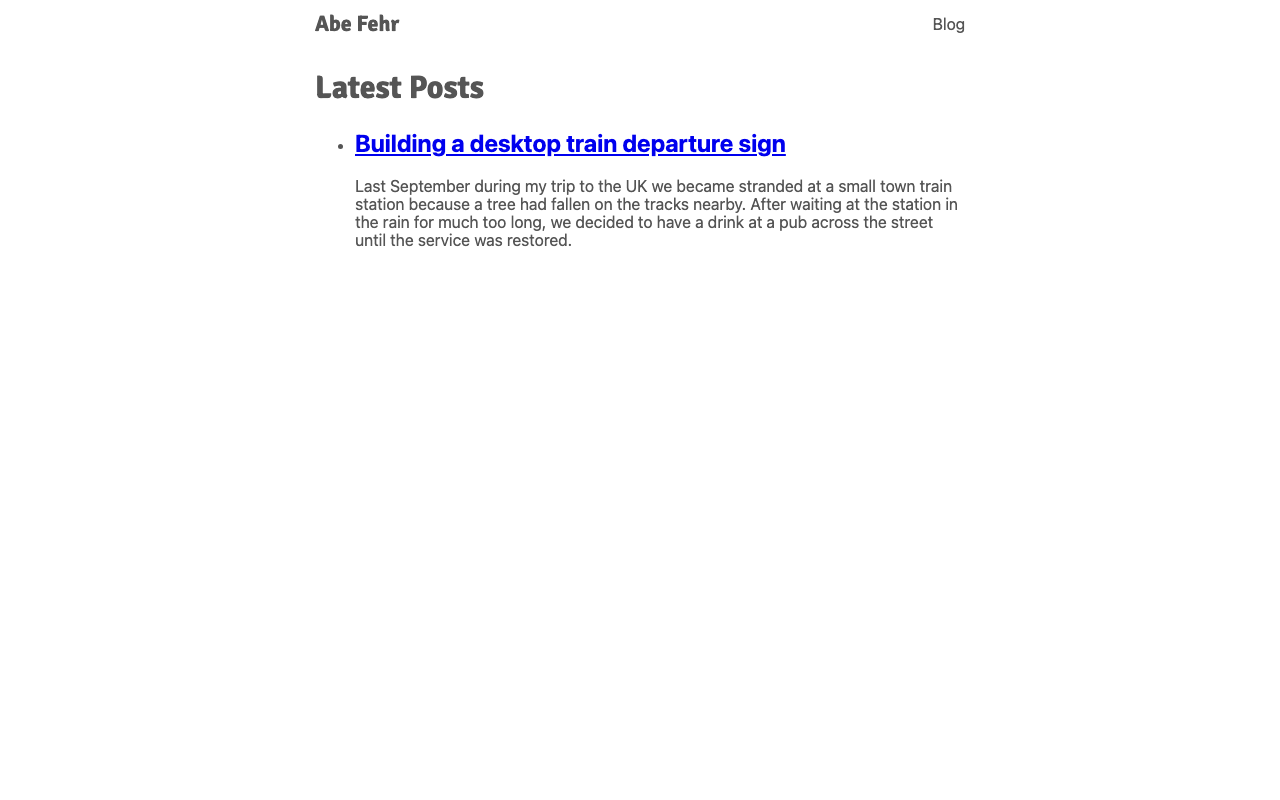
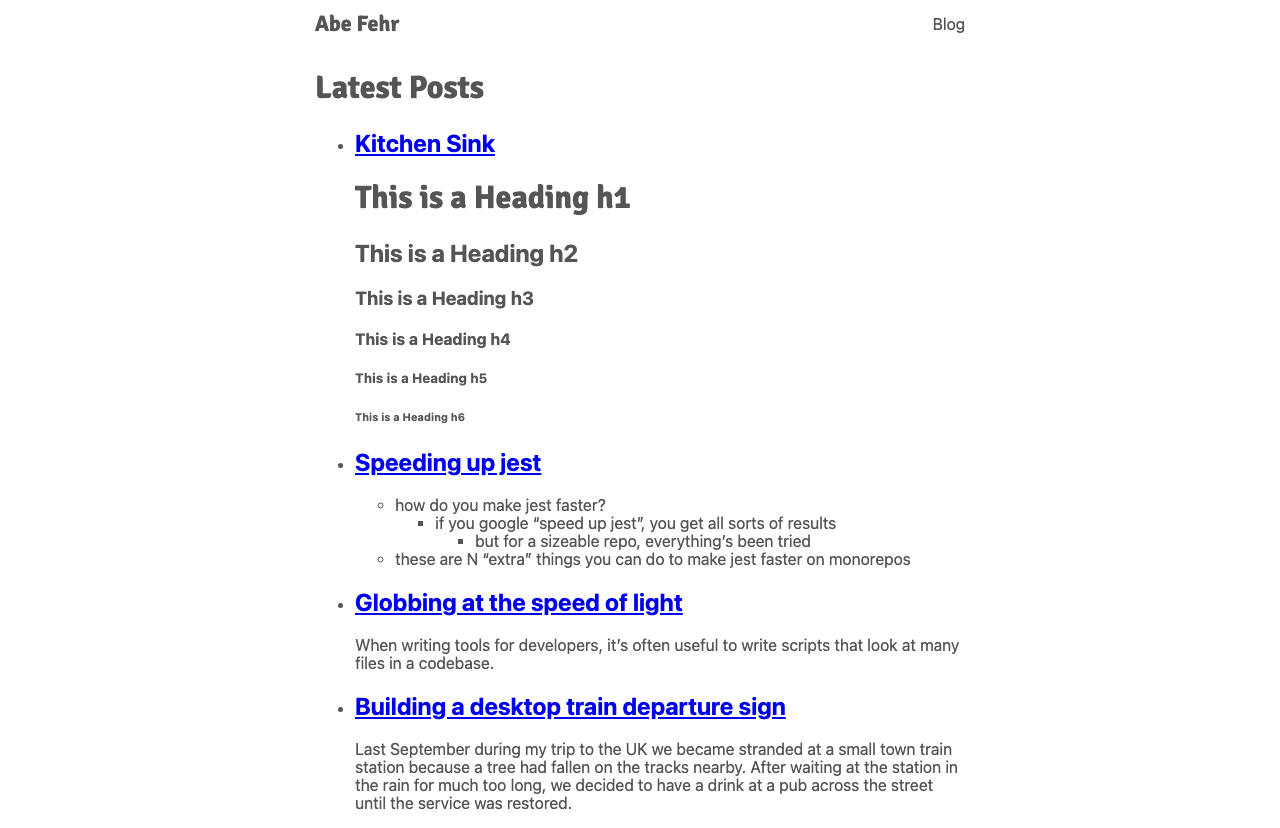
Globbing at the speed of light

diff --git a/assets/syntax.css b/assets/syntax.css
@@ -1,0 +1,116 @@
+.highlight table td { padding: 5px; }
+.highlight table pre { margin: 0; }
+.highlight, .highlight .w {
+  color: #24292f;
+  background-color: #f6f8fa;
+}
+.highlight .k, .highlight .kd, .highlight .kn, .highlight .kp, .highlight .kr, .highlight .kt, .highlight .kv {
+  color: #cf222e;
+}
+.highlight .gr {
+  color: #f6f8fa;
+}
+.highlight .gd {
+  color: #82071e;
+  background-color: #ffebe9;
+}
+.highlight .nb {
+  color: #953800;
+}
+.highlight .nc {
+  color: #953800;
+}
+.highlight .no {
+  color: #953800;
+}
+.highlight .nn {
+  color: #953800;
+}
+.highlight .sr {
+  color: #116329;
+}
+.highlight .na {
+  color: #116329;
+}
+.highlight .nt {
+  color: #116329;
+}
+.highlight .gi {
+  color: #116329;
+  background-color: #dafbe1;
+}
+.highlight .ges {
+  font-weight: bold;
+  font-style: italic;
+}
+.highlight .kc {
+  color: #0550ae;
+}
+.highlight .l, .highlight .ld, .highlight .m, .highlight .mb, .highlight .mf, .highlight .mh, .highlight .mi, .highlight .il, .highlight .mo, .highlight .mx {
+  color: #0550ae;
+}
+.highlight .sb {
+  color: #0550ae;
+}
+.highlight .bp {
+  color: #0550ae;
+}
+.highlight .ne {
+  color: #0550ae;
+}
+.highlight .nl {
+  color: #0550ae;
+}
+.highlight .py {
+  color: #0550ae;
+}
+.highlight .nv, .highlight .vc, .highlight .vg, .highlight .vi, .highlight .vm {
+  color: #0550ae;
+}
+.highlight .o, .highlight .ow {
+  color: #0550ae;
+}
+.highlight .gh {
+  color: #0550ae;
+  font-weight: bold;
+}
+.highlight .gu {
+  color: #0550ae;
+  font-weight: bold;
+}
+.highlight .s, .highlight .sa, .highlight .sc, .highlight .dl, .highlight .sd, .highlight .s2, .highlight .se, .highlight .sh, .highlight .sx, .highlight .s1, .highlight .ss {
+  color: #0a3069;
+}
+.highlight .nd {
+  color: #8250df;
+}
+.highlight .nf, .highlight .fm {
+  color: #8250df;
+}
+.highlight .err {
+  color: #f6f8fa;
+  background-color: #82071e;
+}
+.highlight .c, .highlight .ch, .highlight .cd, .highlight .cm, .highlight .cp, .highlight .cpf, .highlight .c1, .highlight .cs {
+  color: #6e7781;
+}
+.highlight .gl {
+  color: #6e7781;
+}
+.highlight .gt {
+  color: #6e7781;
+}
+.highlight .ni {
+  color: #24292f;
+}
+.highlight .si {
+  color: #24292f;
+}
+.highlight .ge {
+  color: #24292f;
+  font-style: italic;
+}
+.highlight .gs {
+  color: #24292f;
+  font-weight: bold;
+}

diff --git a/_layouts/post.html b/_layouts/post.html
@@ -49,6 +49,7 @@
       font-size: 14px;
     }
     </style>
+    <link rel="stylesheet" href="/assets/syntax.css">
     {% include analytics.html %}
   </head>
   <body>

diff --git a/_posts/2025-04-11-globbing-at-the-speed-of-light.md b/_posts/2025-04-11-globbing-at-the-speed-of-light.md
@@ -1,0 +1,43 @@
+---
+layout: post
+title: Globbing at the speed of light
+---
+
+When writing tools for developers, it's often useful to write scripts that look at many files in a codebase.
+
+The first choice in Javascript might be the [`glob`](https://www.npmjs.com/package/glob) package, but I quickly found out that it was too slow.
+
+[`fast-glob`](https://www.npmjs.com/package/fast-glob) is faster, but [`globby`](https://www.npmjs.com/package/globby) is even better because it supports a `gitignore` option.
+
+Still, globbing in a large repo (~6 million LOC) was taking ~3-4 seconds on my 10-core M3 Macbook.
+
+I discovered a neat trick though: you can use `git ls-files` (and `picomatch`) for _really_ fast globbing.
+
+Here's what this looks like in Node:
+
+```javascript
+import { spawn } from 'node:child_process';
+import picomatch from 'picomatch';
+
+const isMatch = picomatch(
+  '{@types,apps,libs,tools,toolchain/**/*.{ts,tsx,js,jsx}}'
+)
+
+const paths = [];
+const gitProcess = spawn('git', ['ls-files'], {
+  stdio: ['ignore', 'pipe', 'inherit'],
+});
+
+let buffer = '';
+for await (const chunk of gitProcess.stdout) {
+  buffer += chunk.toString();
+  const lines = buffer.split('\n');
+  buffer = lines.pop() || '';
+  lines.filter((line) => isMatch(line)).forEach((line) => paths.push(line));
+}
+if (buffer && isMatch(buffer)) {
+  paths.push(buffer);
+}
+```
+
+With this approach I'm able to get a relevant list of paths in milliseconds as opposed to seconds.

diff --git a/TODO.md b/TODO.md
@@ -24,6 +24,7 @@ general blog nice-to-haves
 
 inspo
 
+- https://antfu.me/
 - https://hillelwayne.com/
 - https://zed.dev/
 - https://www.nan.fyi/database
@@ -48,6 +49,8 @@ other ideas:
 - newsletter (kind of insane)
 - link to previous/next posts
 - brief about on blog pages, maybe in a sidebar (idk)
+- portfolio
+  - not much to show anymore
 
 blog posts I like:
 linear - why is quality so rare?
